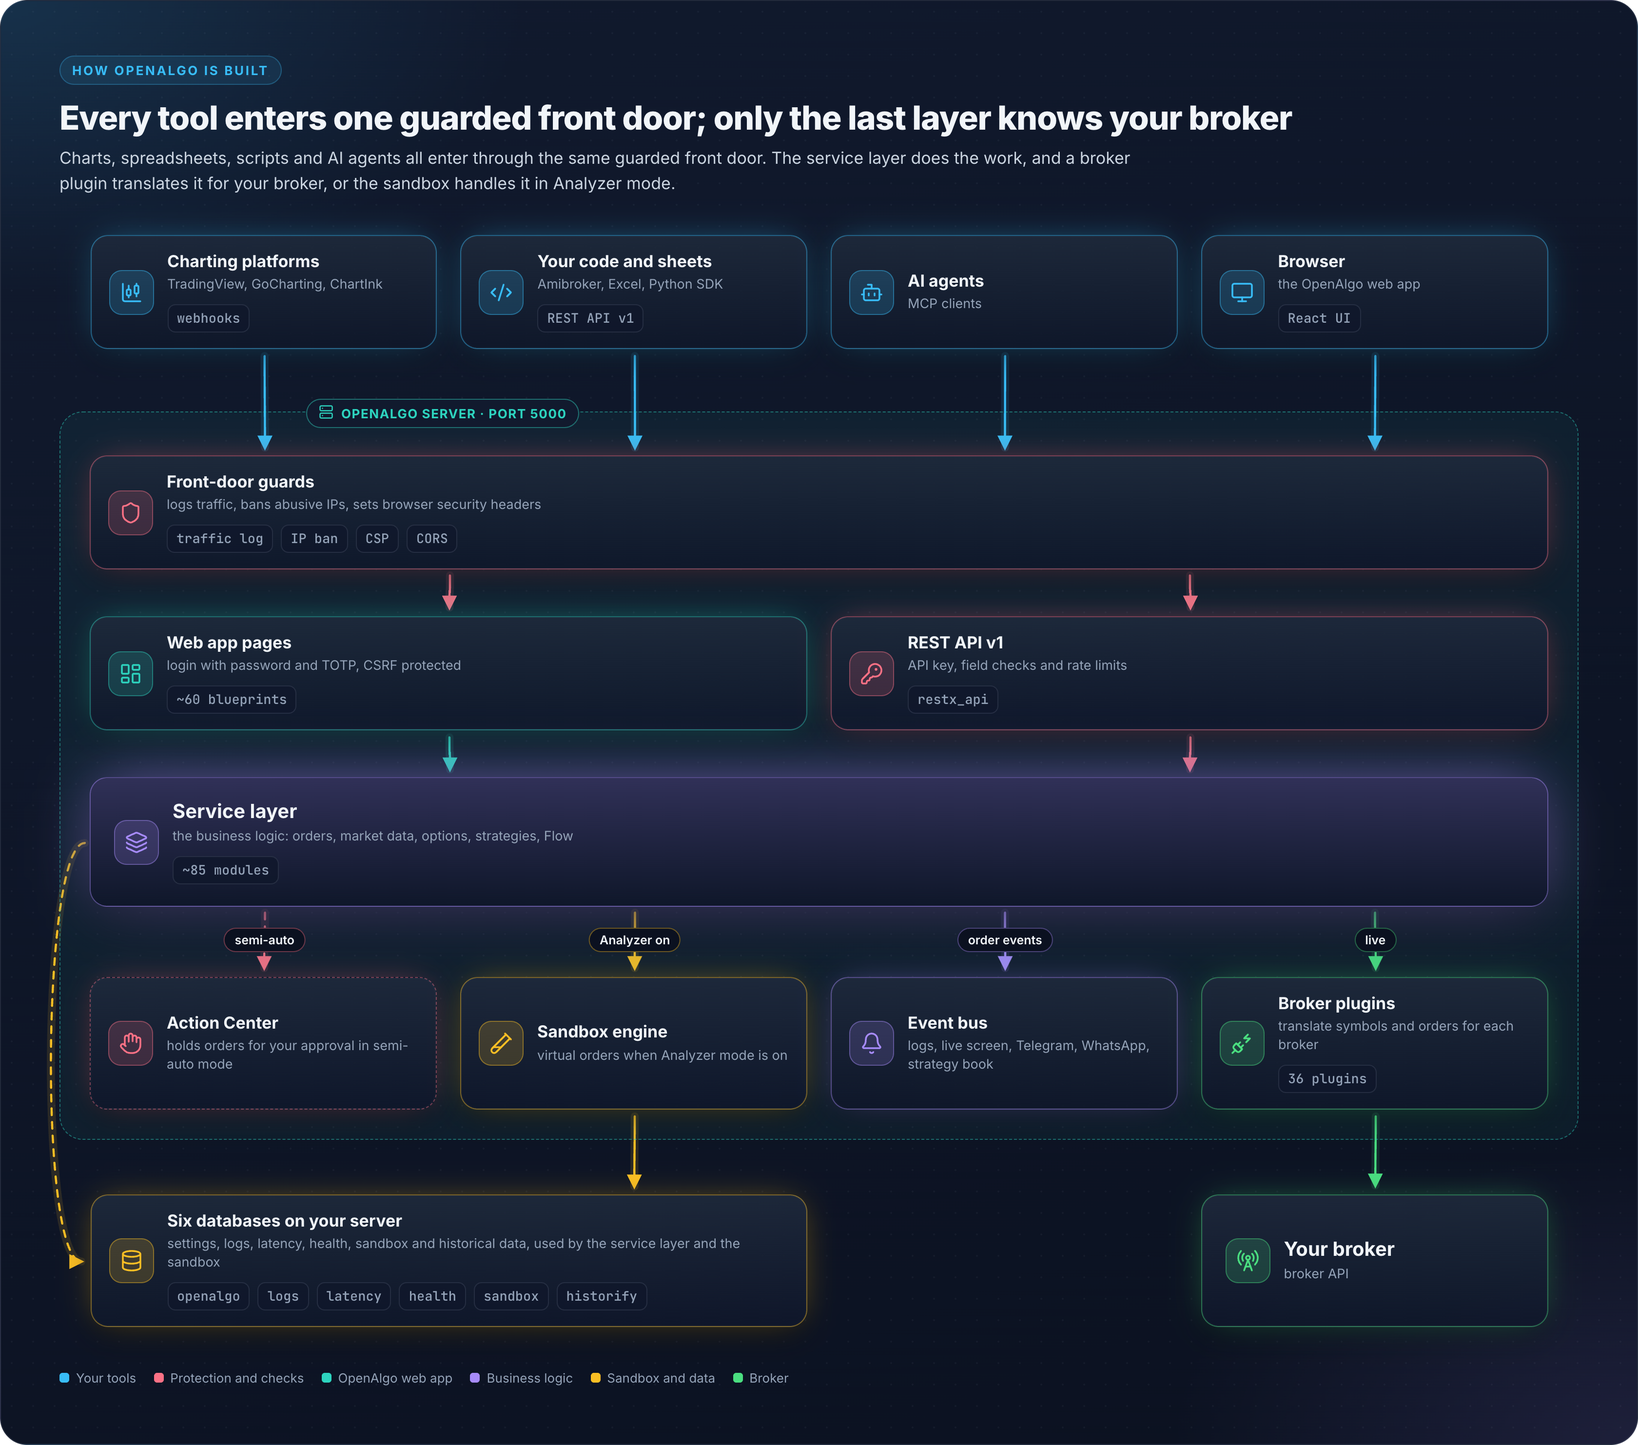
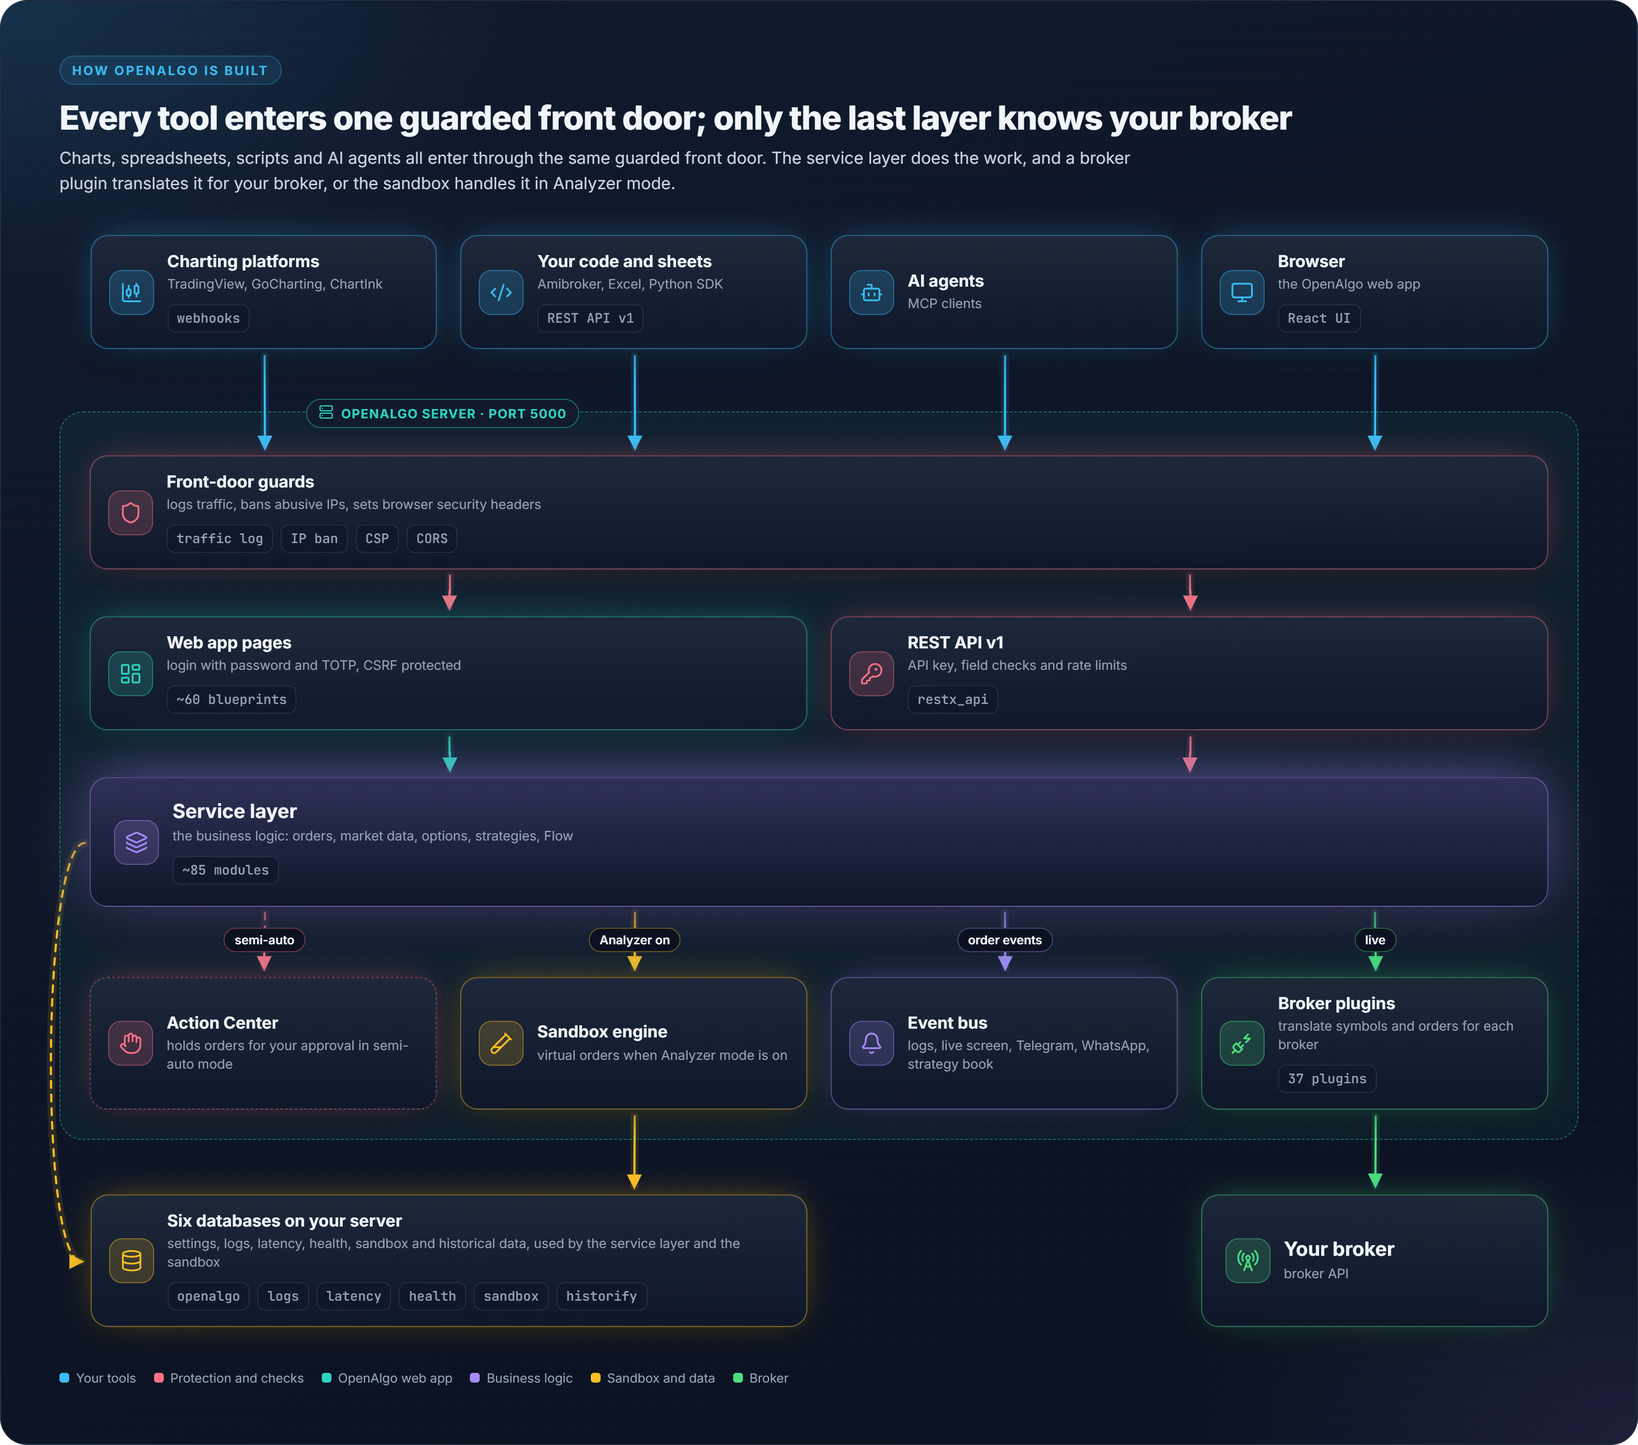
docs: 37 broker plugins now that Rupeezy has joined
Rupeezy (Vortex) is a plugin on the platform's main (broker/rupeezy,
IN_stock) and in VALID_BROKERS, so the inventory is 37: 35 securities
brokers, Delta Exchange for crypto derivatives and the Dhan sandbox.

- Every page that counted 36 plugins or 34 securities brokers, the
  inventory list in 52-broker-factory-implementation, and the
  "other 35 are IN_stock" sentences (now 36).
- The VALID_BROKERS copies in the Mac and Windows environment guides
  match .sample.env again, and the Docker table lists rupeezy.
- The two diagrams that show the count (architecture-layered-view,
  why-openalgo-broker-abstraction) are updated and re-rendered.
- "A Dhan sandbox plugin for paper trading" becomes "for testing
  without real money", per the docs' own wording rule.
- diagrams/_tools/render.mjs resolves its own folder with
  fileURLToPath, so it renders on Windows as well as macOS.

diff --git a/diagrams/why-openalgo-broker-abstraction.html b/diagrams/why-openalgo-broker-abstraction.html
@@ -51,11 +51,11 @@
     <div class="zone" id="plugins" style="--c:var(--broker); position:relative; margin-left:34px">
       <i id="pHi" style="position:absolute; left:0; top:40%; width:1px; height:1px"></i>
       <i id="pLo" style="position:absolute; left:0; top:62%; width:1px; height:1px"></i>
-      <div class="zl"><span data-icon="puzzle"></span>36 broker plugins</div>
+      <div class="zl"><span data-icon="puzzle"></span>37 broker plugins</div>
       <div class="col" style="gap:18px">
         <div class="node broker" style="width:250px">
           <div class="ic" data-icon="building-2"></div>
-          <div class="tx"><b>34 stock brokers</b><span>each has api, mapping and streaming parts</span></div>
+          <div class="tx"><b>35 stock brokers</b><span>each has api, mapping and streaming parts</span></div>
         </div>
         <div class="node broker" style="width:250px">
           <div class="ic" data-icon="bitcoin"></div>

diff --git a/diagrams/architecture-layered-view.html b/diagrams/architecture-layered-view.html
@@ -49,7 +49,7 @@
         <div class="node data" id="sbx"><div class="ic" data-icon="test-tube-diagonal"></div><div class="tx"><b>Sandbox engine</b><span>virtual orders when Analyzer mode is on</span></div></div>
         <div class="node service" id="bus"><div class="ic" data-icon="bell"></div><div class="tx"><b>Event bus</b><span>logs, live screen, Telegram, WhatsApp, strategy book</span></div></div>
         <div class="node broker" id="plug"><div class="ic" data-icon="plug-zap"></div><div class="tx"><b>Broker plugins</b><span>translate symbols and orders for each broker</span>
-          <div class="chips"><span class="chip">36 plugins</span></div></div></div>
+          <div class="chips"><span class="chip">37 plugins</span></div></div></div>
       </div>
     </div>
   </div>

diff --git a/README.md b/README.md
@@ -1,10 +1,10 @@
 # What is OpenAlgo?
 
-**OpenAlgo is the open source trading ecosystem for everyone.** It is one all-in-one platform that you host yourself: chart and trade, scalp, analyse options, automate strategies with code or without it, manage risk, test in sandbox mode and research your own market data, all on one screen and across 36 broker plugins.
+**OpenAlgo is the open source trading ecosystem for everyone.** It is one all-in-one platform that you host yourself: chart and trade, scalp, analyse options, automate strategies with code or without it, manage risk, test in sandbox mode and research your own market data, all on one screen and across 37 broker plugins.
 
 You do not need a separate charting subscription, an options analytics tool, an algo bridge and a backtester stitched together. They are all part of the same self-hosted stack, they share one broker session and one real-time market feed, and the code, the data and the server stay yours.
 
-Under the hood, OpenAlgo is built with Python Flask and a modern React frontend. It provides a unified API layer across 36 broker plugins: 34 securities brokers, Delta Exchange for crypto derivatives, and a Dhan sandbox plugin for testing without real money. It accepts signals from Amibroker, TradingView, GoCharting, N8N, ChartInk, MetaTrader 5, Excel, Google Sheets, and a Chrome extension, and ships eight official SDKs: Python, Node.js, Java, .NET, Go, Rust, R, and MATLAB.
+Under the hood, OpenAlgo is built with Python Flask and a modern React frontend. It provides a unified API layer across 37 broker plugins: 35 securities brokers, Delta Exchange for crypto derivatives, and a Dhan sandbox plugin for testing without real money. It accepts signals from Amibroker, TradingView, GoCharting, N8N, ChartInk, MetaTrader 5, Excel, Google Sheets, and a Chrome extension, and ships eight official SDKs: Python, Node.js, Java, .NET, Go, Rust, R, and MATLAB.
 
 {% embed url="https://www.youtube.com/watch?v=S5myMo9WUdQ" %}
 
@@ -246,7 +246,7 @@ Let's be clear about what OpenAlgo doesn't do:
 | Aspect                | OpenAlgo                                         |
 | --------------------- | ------------------------------------------------ |
 | **Cost**              | Free (Open Source, AGPL License)                 |
-| **Brokers**           | 36 plugins: 34 securities brokers, Delta Exchange (crypto), Dhan Sandbox |
+| **Brokers**           | 37 plugins: 35 securities brokers, Delta Exchange (crypto), Dhan Sandbox |
 | **Exchanges**         | NSE, NFO, BSE, BFO, MCX, CDS, BCD, NCDEX, NCO, plus index and crypto segments |
 | **SDKs**              | Python, Node.js, Java, .NET, Go, Rust, R, MATLAB |
 | **Signal Sources**    | TradingView, Amibroker, ChartInk, GoCharting, MetaTrader 5, N8N, Excel, Google Sheets, Python, AI agents |

diff --git a/why-to-build-with-openalgo.md b/why-to-build-with-openalgo.md
@@ -25,7 +25,7 @@ It's not just an API wrapper. OpenAlgo is **the open source trading ecosystem fo
 
 | | |
 | --- | --- |
-| **36 broker plugins** | 34 securities brokers, Delta Exchange for crypto derivatives, and a Dhan sandbox plugin |
+| **37 broker plugins** | 35 securities brokers, Delta Exchange for crypto derivatives, and a Dhan sandbox plugin |
 | **8 official SDKs** | Python, Node.js, Java, .NET, Go, Rust, R, MATLAB |
 | **61 node types** | In the Flow visual strategy builder |
 | **90+ indicators** | In the built-in charting terminal |
@@ -118,9 +118,9 @@ See [Historify](new-features/historify.md) and [Portfolio Backtester and Analyze
 
 #### Multi-Broker, Multi-Platform
 
-OpenAlgo ships **36 broker plugins**: 34 securities brokers, Delta Exchange for crypto derivatives, and a Dhan sandbox plugin for paper trading. The securities plugins share normalized API and WebSocket interfaces, reducing broker-specific strategy code.
+OpenAlgo ships **37 broker plugins**: 35 securities brokers, Delta Exchange for crypto derivatives, and a Dhan sandbox plugin for testing without real money. The securities plugins share normalized API and WebSocket interfaces, reducing broker-specific strategy code.
 
-<figure><img src=".gitbook/assets/diagram-why-openalgo-broker-abstraction.png" alt="Strategy code calls the OpenAlgo REST API and WebSocket proxy; REST orders and built-in Flow go through the services layer, the WebSocket proxy loads streaming adapters directly and streams live prices from the broker back to your code, and the 36 broker plugins call the broker APIs"><figcaption></figcaption></figure>
+<figure><img src=".gitbook/assets/diagram-why-openalgo-broker-abstraction.png" alt="Strategy code calls the OpenAlgo REST API and WebSocket proxy; REST orders and built-in Flow go through the services layer, the WebSocket proxy loads streaming adapters directly and streams live prices from the broker back to your code, and the 37 broker plugins call the broker APIs"><figcaption></figcaption></figure>
 
 See the full list under [Brokers](connect-brokers/brokers/README.md) and [Delta Exchange](crypto/exchanges/delta-exchange.md).
 

diff --git a/developers/design-documentation/33-broker-folder-explanations.md b/developers/design-documentation/33-broker-folder-explanations.md
@@ -35,7 +35,7 @@ broker/
 │   └── ... (same shape)
 ├── angel/
 │   └── ... (same shape)
-└── ... (36 broker plugins total)
+└── ... (37 broker plugins total)
 ```
 
 The streaming files are named after the broker, so Angel uses `broker/angel/streaming/angel_adapter.py` and so on. Not every plugin ships every optional module: `gtt_api.py` exists only for Dhan and Zerodha, and `<broker>_order_adapter.py` only where the broker pushes order updates. `mapping/` and `database/` have no `__init__.py` in most plugins.
@@ -66,7 +66,7 @@ def get_feed_token():
 
 ### 2. api/order_api.py
 
-Order management operations. All 36 plugins expose the same set.
+Order management operations. All 37 plugins expose the same set.
 
 ```python
 # Required functions
@@ -270,9 +270,9 @@ Broker metadata plus a small amount of capability configuration.
 > **Important**: `plugin.json` carries identity plus the three capability keys
 > `supported_exchanges`, `broker_type` and `leverage_config`. It does NOT contain API
 > URLs, credentials or rate limits. Authentication methods, API endpoints and WebSocket
-> URLs are handled directly in the broker's Python code. Of the 36 plugins, only
+> URLs are handled directly in the broker's Python code. Of the 37 plugins, only
 > `deltaexchange` declares `"broker_type": "crypto"` with `"leverage_config": true`;
-> the other 35 declare `"broker_type": "IN_stock"` with `"leverage_config": false`.
+> the other 36 declare `"broker_type": "IN_stock"` with `"leverage_config": false`.
 
 ## Adding a New Broker
 
@@ -301,7 +301,7 @@ touch broker/newbroker/{api,mapping,database,streaming}/__init__.py
 VALID_BROKERS = 'zerodha,dhan,angel,newbroker'
 ```
 
-`VALID_BROKERS` in `.sample.env` currently lists all 36 plugins.
+`VALID_BROKERS` in `.sample.env` currently lists all 37 plugins.
 
 ## Field Mapping Examples
 

diff --git a/developers/design-documentation/52-broker-factory-implementation.md b/developers/design-documentation/52-broker-factory-implementation.md
@@ -44,11 +44,11 @@ Connection pools recognize common authentication failures such as 401, 403, expi
 
 ## Current Plugin Inventory
 
-There are 36 `broker/*/plugin.json` directories, covering 34 securities brokers, Delta Exchange for crypto derivatives, and a Dhan sandbox plugin for paper trading:
+There are 37 `broker/*/plugin.json` directories, covering 35 securities brokers, Delta Exchange for crypto derivatives, and a Dhan sandbox plugin for testing without real money:
 
-`aliceblue`, `angel`, `arrow`, `compositedge`, `definedge`, `deltaexchange`, `dhan`, `dhan_sandbox`, `firstock`, `fivepaisa`, `fivepaisaxts`, `flattrade`, `fyers`, `groww`, `hdfcsecurities`, `hdfcsky`, `ibulls`, `iifl`, `iiflcapital`, `indmoney`, `jainamxts`, `kotak`, `motilal`, `mstock`, `nubra`, `paytm`, `pocketful`, `rmoney`, `samco`, `shoonya`, `tradejini`, `tradesmart`, `upstox`, `wisdom`, `zebu`, and `zerodha`.
+`aliceblue`, `angel`, `arrow`, `compositedge`, `definedge`, `deltaexchange`, `dhan`, `dhan_sandbox`, `firstock`, `fivepaisa`, `fivepaisaxts`, `flattrade`, `fyers`, `groww`, `hdfcsecurities`, `hdfcsky`, `ibulls`, `iifl`, `iiflcapital`, `indmoney`, `jainamxts`, `kotak`, `motilal`, `mstock`, `nubra`, `paytm`, `pocketful`, `rmoney`, `rupeezy`, `samco`, `shoonya`, `tradejini`, `tradesmart`, `upstox`, `wisdom`, `zebu`, and `zerodha`.
 
-Only `deltaexchange` declares `broker_type: crypto` and `leverage_config: true`; the other 35 declare `broker_type: IN_stock` with `leverage_config: false`.
+Only `deltaexchange` declares `broker_type: crypto` and `leverage_config: true`; the other 36 declare `broker_type: IN_stock` with `leverage_config: false`.
 
 Individual broker symbol limits and depth capabilities are adapter/upstream concerns and must not be inferred from the generic 1000-by-3 pool defaults.
 

diff --git a/skills/execution.md b/skills/execution.md
@@ -4,7 +4,7 @@
 
 A comprehensive agent-skill package covering the full OpenAlgo Python SDK surface, trading execution, custom limit-order algorithms, scanners, visualization, backtesting, charting, real-time WebSocket streaming, and Telegram / WhatsApp alerts for Indian markets (NSE, BSE, NFO, BFO, CDS, BCD, MCX, NCO). Works with **40+ AI coding agents** via [skills.sh](https://github.com/vercel-labs/skills), including Claude Code, Cursor, Codex, OpenCode, Cline, Windsurf, GitHub Copilot, Gemini CLI, Roo Code, and more.
 
-Broker-agnostic by design: one Python SDK targets the common interface exposed by 36 broker plugins (34 securities brokers, Delta Exchange for crypto derivatives, and a Dhan sandbox plugin). Optional capabilities still depend on the active plugin and account. The skill is **response-aware**: every reference doc and example demonstrates how to chain endpoints together (e.g. place order → poll status → read fill price → compute SL → attach SL+target → alert) so the agent can write complete strategies, not just isolated API calls.
+Broker-agnostic by design: one Python SDK targets the common interface exposed by 37 broker plugins (35 securities brokers, Delta Exchange for crypto derivatives, and a Dhan sandbox plugin). Optional capabilities still depend on the active plugin and account. The skill is **response-aware**: every reference doc and example demonstrates how to chain endpoints together (e.g. place order → poll status → read fill price → compute SL → attach SL+target → alert) so the agent can write complete strategies, not just isolated API calls.
 
 #### Quick Install
 

diff --git a/developers/design-documentation/51-broker-and-system-config.md b/developers/design-documentation/51-broker-and-system-config.md
@@ -26,7 +26,7 @@ The UI is part of `frontend/src/pages/Profile.tsx`. Broker selection/login uses 
 
 ## Capability Loading
 
-At startup `utils/plugin_loader.py` calls `load_broker_capabilities()`, which reads every `broker/*/plugin.json` that declares `supported_exchanges` into the module-level `_broker_capabilities` dict. All 36 plugins qualify today: 34 securities brokers, Delta Exchange for crypto derivatives, and a Dhan sandbox plugin for paper trading. `/api/broker/capabilities` reads the broker from the Flask session and serves the cached record through `get_broker_capabilities()`. No session broker returns HTTP 400. A missing capability record falls back to a minimal `IN_stock` object with an empty `supported_exchanges` list and `leverage_config: false`.
+At startup `utils/plugin_loader.py` calls `load_broker_capabilities()`, which reads every `broker/*/plugin.json` that declares `supported_exchanges` into the module-level `_broker_capabilities` dict. All 37 plugins qualify today: 35 securities brokers, Delta Exchange for crypto derivatives, and a Dhan sandbox plugin for testing without real money. `/api/broker/capabilities` reads the broker from the Flask session and serves the cached record through `get_broker_capabilities()`. No session broker returns HTTP 400. A missing capability record falls back to a minimal `IN_stock` object with an empty `supported_exchanges` list and `leverage_config: false`.
 
 ## Security Boundaries
 

diff --git a/getting-started/windows-installation/environmental-variables.md b/getting-started/windows-installation/environmental-variables.md
@@ -68,10 +68,10 @@ Historify is DuckDB rather than SQLite, so its value is a plain file path and no
 
 ## Broker Allowlist
 
-`VALID_BROKERS` is a comma-separated list of enabled plugin keys. The release template contains all 36 installed plugins:
+`VALID_BROKERS` is a comma-separated list of enabled plugin keys. The release template contains all 37 installed plugins:
 
 ```dotenv
-VALID_BROKERS = 'fivepaisa,fivepaisaxts,aliceblue,angel,arrow,compositedge,dhan,dhan_sandbox,definedge,deltaexchange,firstock,flattrade,fyers,groww,hdfcsecurities,hdfcsky,ibulls,iifl,iiflcapital,indmoney,jainamxts,kotak,motilal,mstock,nubra,paytm,pocketful,rmoney,samco,shoonya,tradejini,tradesmart,upstox,wisdom,zebu,zerodha'
+VALID_BROKERS = 'fivepaisa,fivepaisaxts,aliceblue,angel,arrow,compositedge,dhan,dhan_sandbox,definedge,deltaexchange,firstock,flattrade,fyers,groww,hdfcsecurities,hdfcsky,ibulls,iifl,iiflcapital,indmoney,jainamxts,kotak,motilal,mstock,nubra,paytm,pocketful,rmoney,rupeezy,samco,shoonya,tradejini,tradesmart,upstox,wisdom,zebu,zerodha'
 ```
 
 Broker presence does not guarantee every optional exchange, GTT, historical-data, or streaming capability. See [Brokers](../../connect-brokers/brokers/README.md).

diff --git a/getting-started/mac-os-installation/environmental-variables.md b/getting-started/mac-os-installation/environmental-variables.md
@@ -110,10 +110,10 @@ Set to `'TRUE'` and point `HOST_SERVER` at your Ngrok domain if you tunnel the i
 
 ### Broker allowlist
 
-`VALID_BROKERS` is a comma-separated list of enabled broker plugin keys. The release template enables all 36:
+`VALID_BROKERS` is a comma-separated list of enabled broker plugin keys. The release template enables all 37:
 
 ```dotenv
-VALID_BROKERS = 'fivepaisa,fivepaisaxts,aliceblue,angel,arrow,compositedge,dhan,dhan_sandbox,definedge,deltaexchange,firstock,flattrade,fyers,groww,hdfcsecurities,hdfcsky,ibulls,iifl,iiflcapital,indmoney,jainamxts,kotak,motilal,mstock,nubra,paytm,pocketful,rmoney,samco,shoonya,tradejini,tradesmart,upstox,wisdom,zebu,zerodha'
+VALID_BROKERS = 'fivepaisa,fivepaisaxts,aliceblue,angel,arrow,compositedge,dhan,dhan_sandbox,definedge,deltaexchange,firstock,flattrade,fyers,groww,hdfcsecurities,hdfcsky,ibulls,iifl,iiflcapital,indmoney,jainamxts,kotak,motilal,mstock,nubra,paytm,pocketful,rmoney,rupeezy,samco,shoonya,tradejini,tradesmart,upstox,wisdom,zebu,zerodha'
 ```
 
 A broker being listed does not guarantee every optional exchange, GTT, historical-data or streaming capability. See [Brokers](../../connect-brokers/brokers/README.md).

diff --git a/connect-brokers/brokers/README.md b/connect-brokers/brokers/README.md
@@ -1,6 +1,6 @@
 # Brokers
 
-OpenAlgo currently includes **36 broker plugin directories**: 34 securities brokers, a Dhan sandbox plugin for paper trading, and [Delta Exchange](../../crypto/exchanges/delta-exchange.md) for crypto derivatives, which is documented separately under Crypto. This section lists the 35 plugins that connect to a securities account, including the Dhan sandbox.
+OpenAlgo currently includes **37 broker plugin directories**: 35 securities brokers, a Dhan sandbox plugin for testing without real money, and [Delta Exchange](../../crypto/exchanges/delta-exchange.md) for crypto derivatives, which is documented separately under Crypto. This section lists the 36 plugins that connect to a securities account, including the Dhan sandbox.
 
 The names below are the display names. The short code in brackets is the plugin directory under `broker/`, and it is also the code that must appear in your `REDIRECT_URL` as `http://127.0.0.1:5000/<code>/callback`. OpenAlgo reads the active broker out of that URL, so the code has to match exactly.
 

diff --git a/developers/design-documentation/README.md b/developers/design-documentation/README.md
@@ -2,7 +2,7 @@
 
 This directory describes the implemented architecture of OpenAlgo `2.0.2.2`. OpenAlgo is a self-hosted, single-user trading application with a Flask/Flask-RESTX backend, React 19 frontend, broker plugins, a separate WebSocket proxy, sandbox execution, hosted strategies, Flow automation, portfolio analytics, chart trading, and optional local or remote MCP access.
 
-The current inventory is 36 broker plugins: 34 securities brokers, Delta Exchange for crypto derivatives, and a Dhan sandbox plugin for paper trading. Every one of the 36 has a `plugin.json`. Broker capabilities are metadata-driven; a plugin's presence does not imply every optional broker operation is supported.
+The current inventory is 37 broker plugins: 35 securities brokers, Delta Exchange for crypto derivatives, and a Dhan sandbox plugin for testing without real money. Every one of the 37 has a `plugin.json`. Broker capabilities are metadata-driven; a plugin's presence does not imply every optional broker operation is supported.
 
 ## Documentation Policy
 
